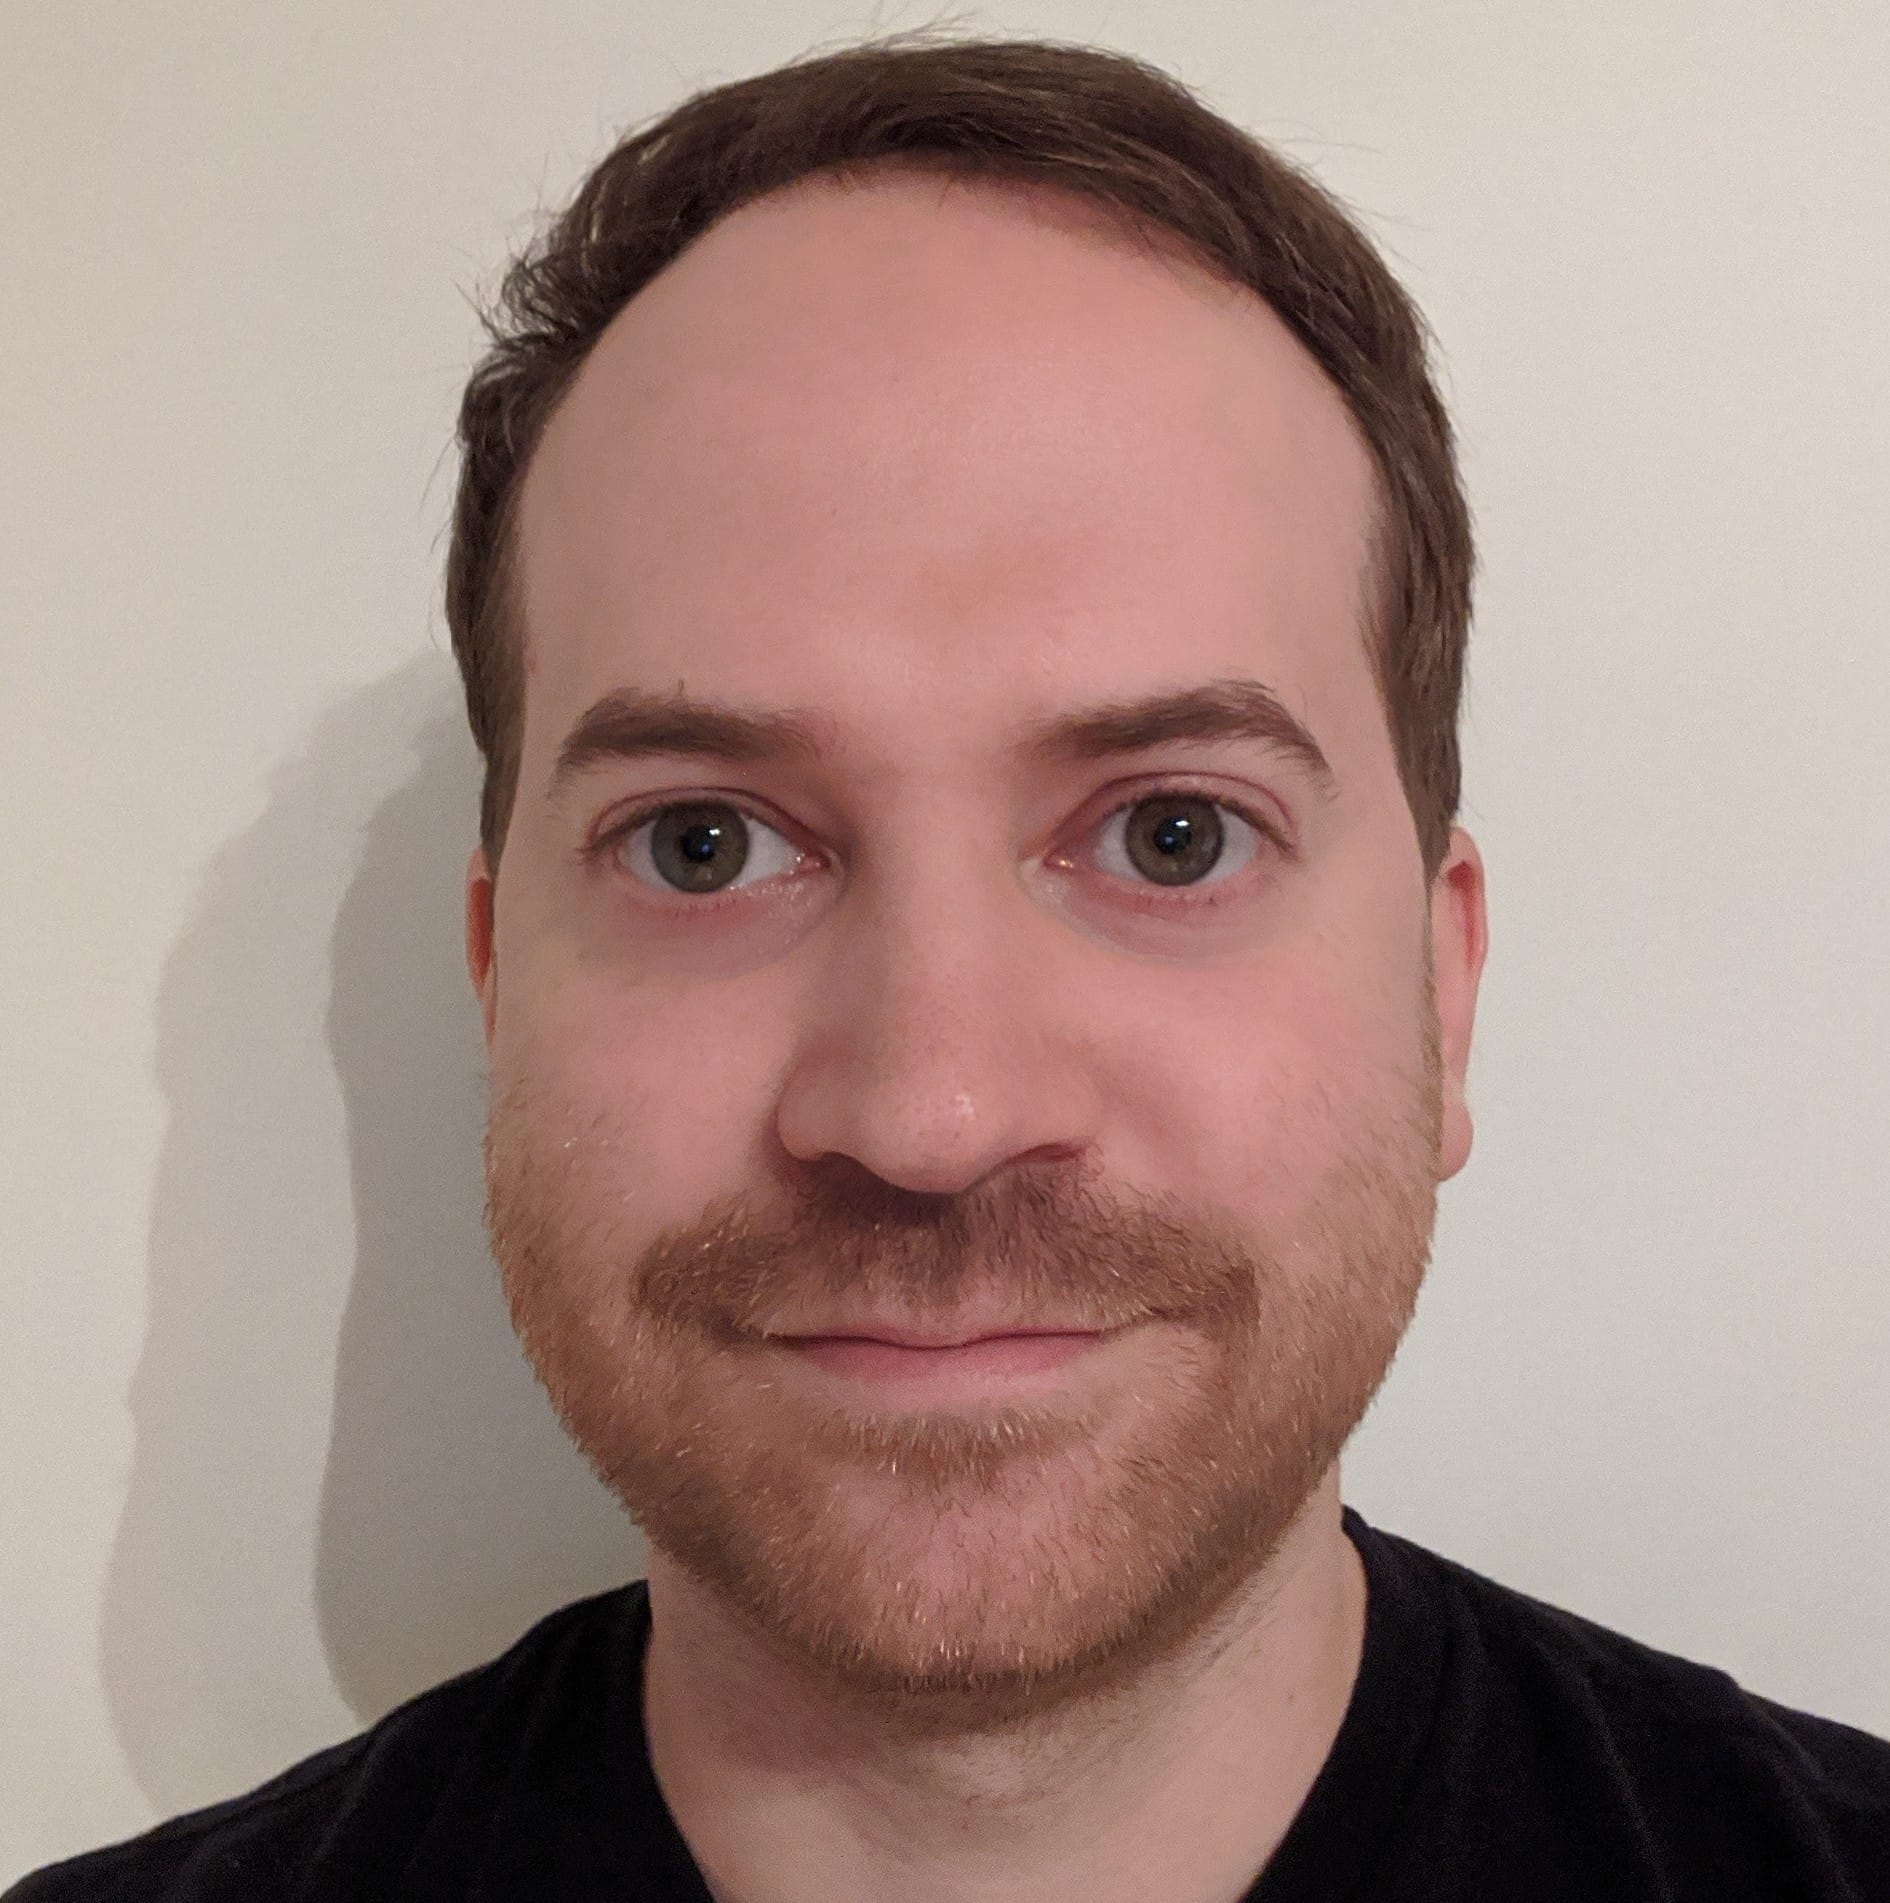
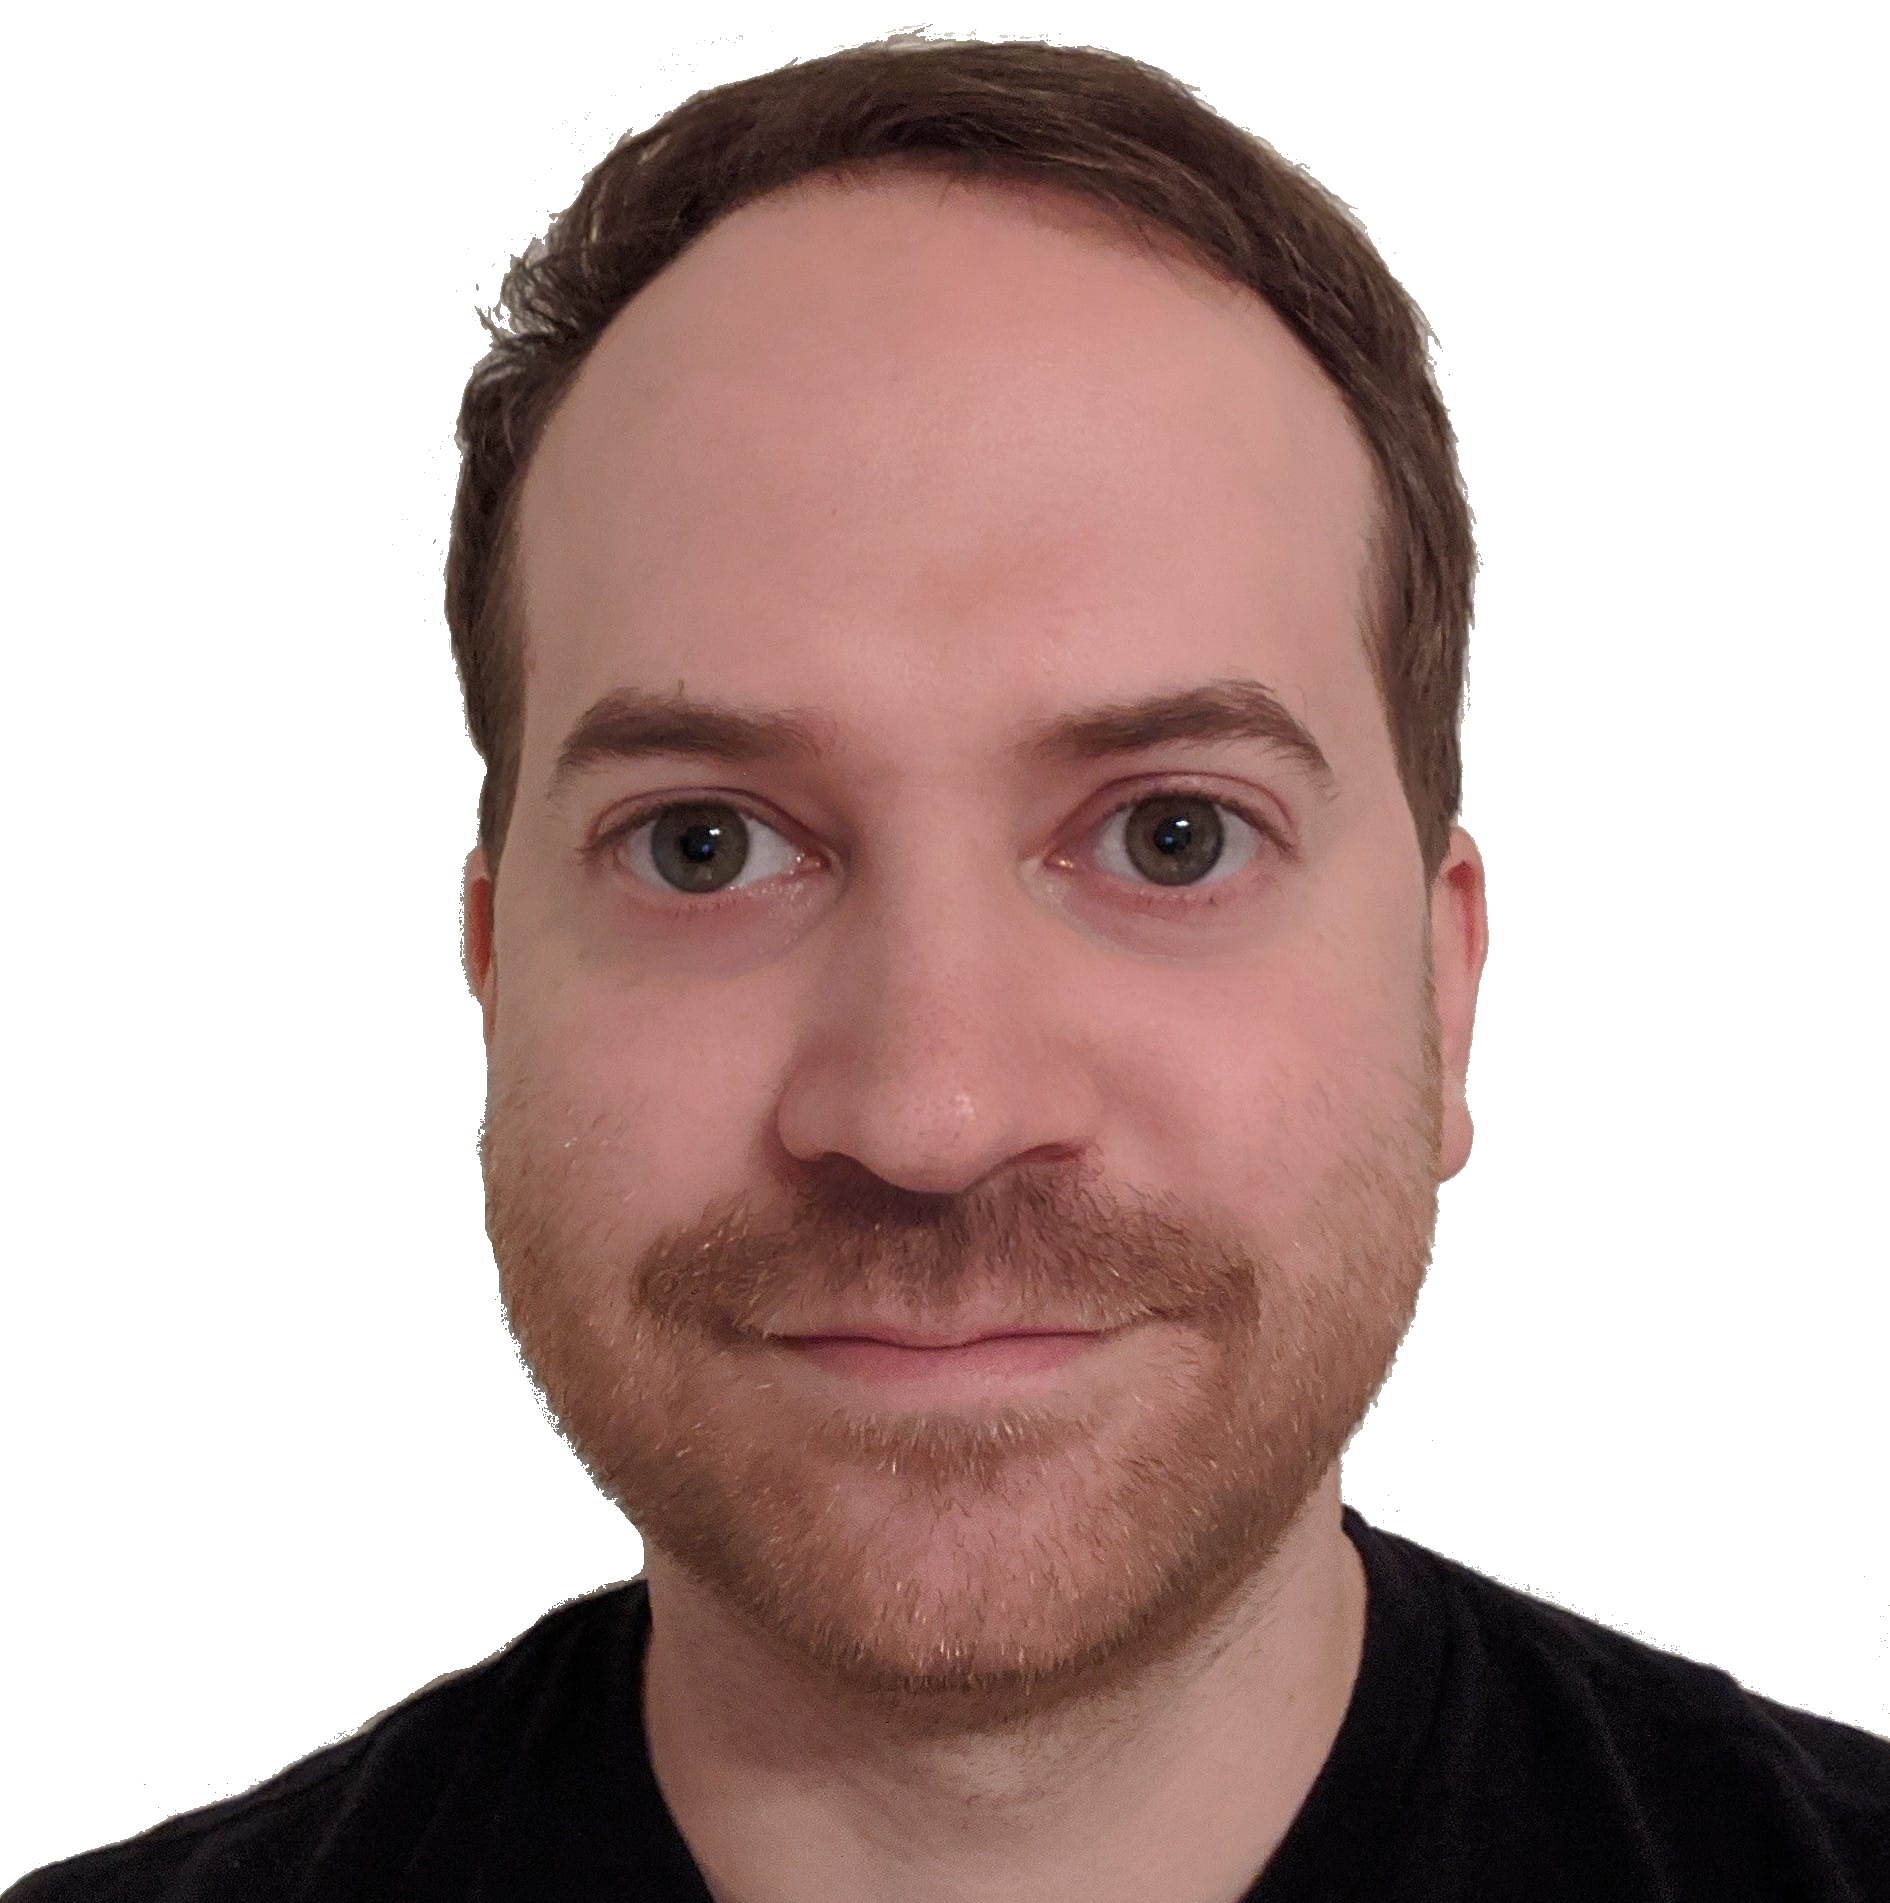
modified:   img/photo.jpg 	modified:   index.html 	modified:   styles/style.css

diff --git a/styles/style.css b/styles/style.css
@@ -22,13 +22,12 @@ Table of content
 
 /* -2- General */
 
-*{
+* {
     margin: 0;
     padding: 0;
     font-family: Barlow, DIN;
     color: var(--rich-black-FOGRA-color);
     background-color: var(--cultured-color);
-    /*outline: 1px solid red;*/
     text-align: center ;
 }
 
@@ -37,7 +36,7 @@ html, body {
     height: 100%;
 }
 
-p, a, h1, h2, h3 {
+p, h1, h2, h3, a {
     background-color: transparent;
 }
 
@@ -182,9 +181,56 @@ main h1 {
 /* -5- Main specific */
 /* Index.html */
 
+
+
 div.photo img {
     max-width: 8rem;
     max-height: 8rem;
+    border-radius: 5rem;
+    border-width: 5rem;
+    margin-top: -5rem;
+}
+
+.promo {
+    border-radius: 1rem;
+    border-width: 1rem;
+    box-shadow: 0.5rem 0.5rem 0.5rem var(--rich-black-FOGRA-color);
+    width: fit-content;
+    padding: 1rem;
+    background-color: var(--ming-color);
+    margin: 10rem auto;
+}
+
+div.photo {
+    background-color: transparent;
+}
+
+#sous-titre-acceuil {
+    background-color: var(--middle-blu-color);
+    border-radius: 1rem;
+    border-width: 1rem;
+    margin-bottom: 1rem;
+}
+
+.content-acceuil {
+    background-color: var(--middle-blu-color);
+    border-radius: 1rem;
+    border-width: 1rem;
+}
+
+.content-acceuil p {
+    font-family:'Franklin Gothic Medium', 'Arial Narrow', Arial, sans-serif;
+    font-weight: bolder;
+    font-style: italic;
+}
+
+.content-acceuil ul li {
+    font-style: italic;
+    font-stretch: semi-expanded;
+}
+
+.content-acceuil ul li, .content-acceuil  {
+    background-color: var(--middle-blu-color);
 }
 
 /* projet.html */

diff --git a/index.html b/index.html
@@ -38,18 +38,34 @@
       </ul>
     </nav>
     <main>
-      <section>
+      <section id="section-acceuil">
         <div class="background">
           <img src="" alt="background" />
-        </div>
-        <div class="photo">
-          <img src="img/photo.jpg" alt="photo" />
         </div>
         <div id="titre-acceuil">
           <h1>Mathieu Gibeault</h1>
         </div>
-        <div id="sous-titre-acceuil">
-          <h2>Programmeur front-end</h2>
+        <div class="promo">
+          <div class="photo">
+            <img src="img/photo.jpg" alt="photo" />
+          </div>
+          <div id="sous-titre-acceuil">
+            <h2>Programmeur</h2>
+          </div>
+          <div class="content-acceuil">
+            <p>Besoin d'un informaticien qui est prêt à faire du front-end?</p>
+            <ul>
+              <li class="trans">
+                Ou qui a de l'expérience de terrain sur de l'aménagement de
+                salle informatique?
+              </li>
+              <li class="trans">
+                Ou d'un charger de projet qui a oeuvrer dans le milieux
+                électrique?
+              </li>
+            </ul>
+            <p>Choisissez Mathieu Gibeault</p>
+          </div>
         </div>
       </section>
     </main>
